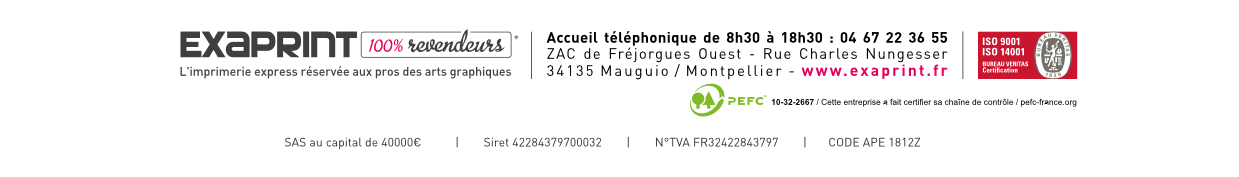
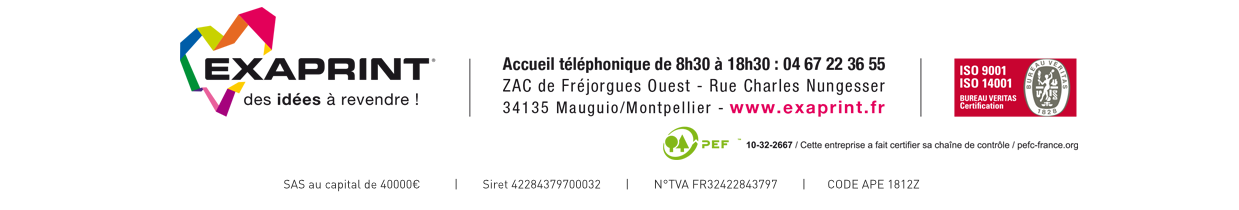
Modification header/footer pour le template français

Changed region(s): [[0.1227, 0.0282, 0.8894, 0.904], [0.368, 0.7627, 0.4907, 0.904], [0.2147, 0.7627, 0.3374, 0.904]]

diff --git a/public/index.php b/public/index.php
@@ -65,7 +65,13 @@ $app->get("/:name/:id.pdf", function ($name, $id) use ($app) {
 
         $wkhtml = new \RBM\Wkhtmltopdf\Wkhtmltopdf();
 
-        if ($name != 'invoice-zip') {
+        if ($name == 'invoice-zip') {
+            // Do nothing
+        }
+        else if ($language = 'fr_FR') {
+            // special config for fr
+
+        } else {
             $wkhtml->setHeaderHtml($resource->getHeader());
             $wkhtml->setMarginTop(50);
             $wkhtml->setHeaderSpacing(5);
